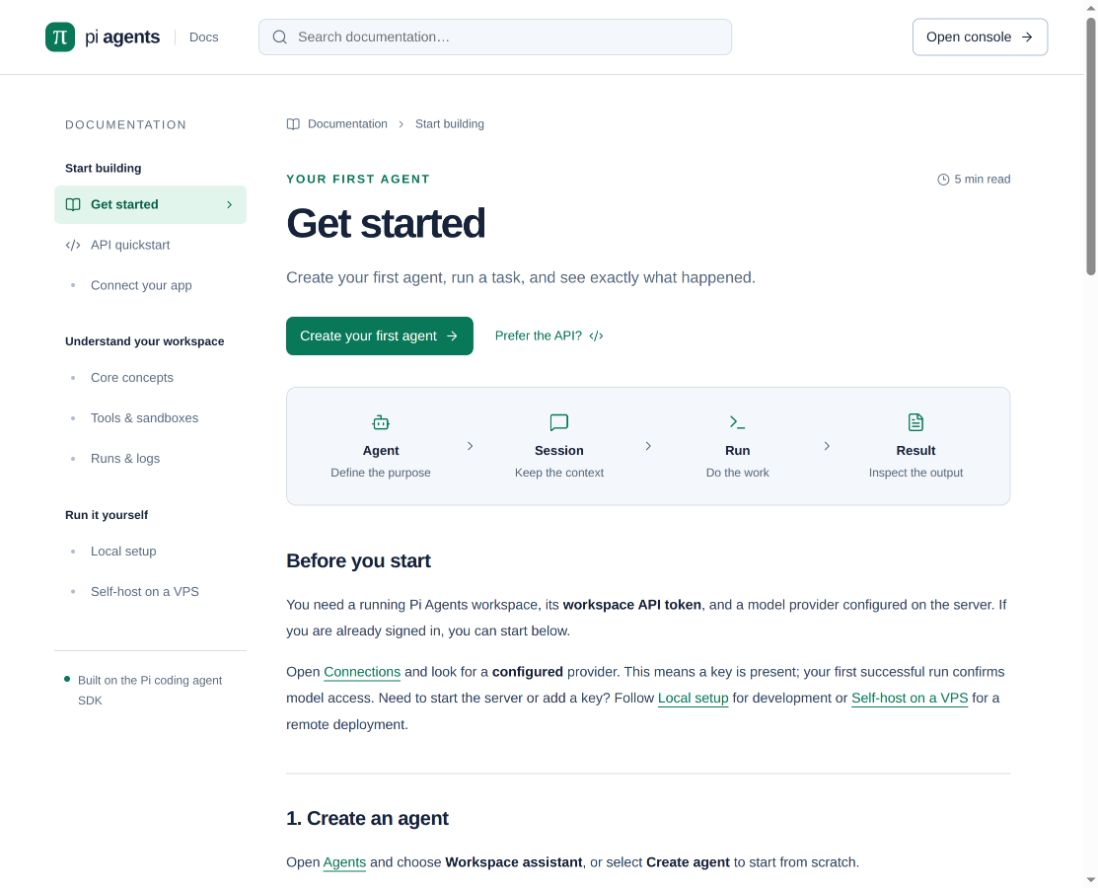
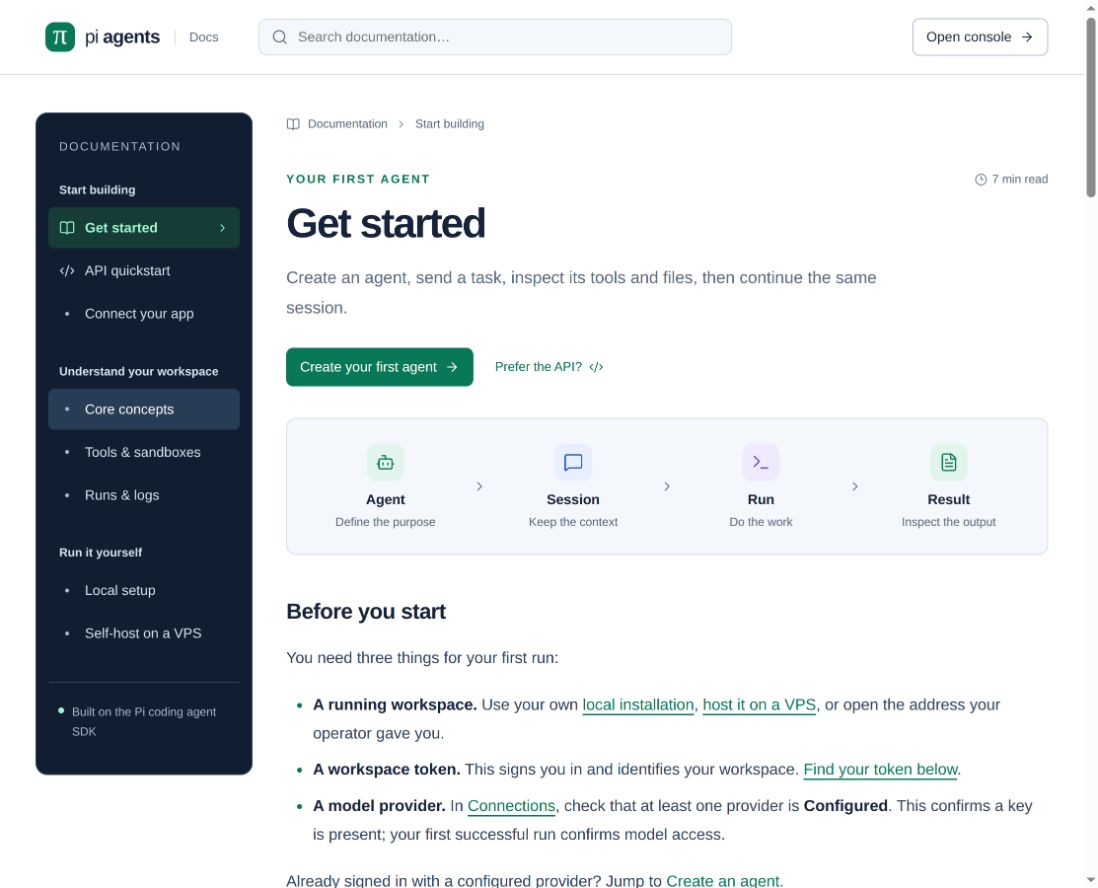
Refresh in-app documentation and its screenshot

diff --git a/ui/src/docs/content.ts b/ui/src/docs/content.ts
@@ -6,13 +6,18 @@ export const docPages: DocPage[] = [
     "id": "get-started",
     "title": "Get started",
     "group": "Start building",
-    "description": "Create your first agent, run a task, and see exactly what happened.",
-    "minutes": "5 min",
+    "description": "Create an agent, send a task, inspect its tools and files, then continue the same session.",
+    "minutes": "7 min",
     "sections": [
       {
         "id": "before-you-start",
         "title": "Before you start",
-        "body": "You need a running Pi Agents workspace, its **workspace API token**, and a model provider configured on the server. If you are already signed in, you can start below.\n\nOpen [Connections](#/connections) and look for a **configured** provider. This means a key is present; your first successful run confirms model access. Need to start the server or add a key? Follow [Local setup](#/docs/local-setup) for development or [Self-host on a VPS](#/docs/self-hosting) for a remote deployment."
+        "body": "You need three things for your first run:\n\n- **A running workspace.** Use your own [local installation](#/docs/local-setup), [host it on a VPS](#/docs/self-hosting), or open the address your operator gave you.\n- **A workspace token.** This signs you in and identifies your workspace. [Find your token below](#/docs/get-started?section=workspace-token).\n- **A model provider.** In [Connections](#/connections), check that at least one provider is **Configured**. This confirms a key is present; your first successful run confirms model access.\n\nAlready signed in with a configured provider? Jump to [Create an agent](#/docs/get-started?section=create-an-agent)."
+      },
+      {
+        "id": "workspace-token",
+        "title": "Find your workspace token",
+        "body": "Your **workspace token** is issued by the operator of this Pi Agents server. It is separate from an OpenRouter, OpenAI, or Anthropic API key.\n\n- **VPS installation:** the setup helper generates a token and saves it under `API_KEYS` in `.env.vps`.\n- **Existing local installation:** find `API_KEYS` in the server's `.env` file.\n- **Someone else hosts the workspace:** ask that operator for your token.\n\nThe configuration looks like this:\n\n```dotenv\nAPI_KEYS='{\"PASTE_YOUR_GENERATED_TOKEN_HERE\":\"demo\"}'\n```\n\nThe text **before the colon** is the token; `demo` is the workspace name. Open [the console](#/agents), paste **only the token** into **API token**, and select **Connect to workspace**. Do not paste the whole JSON object or a model provider key.\n\nFor a new local installation, [generate a token and configure the server](#/docs/local-setup?section=credentials). On a VPS, you can also [issue a token for another workspace](#/docs/self-hosting?section=keys). A workspace token grants access to that workspace's agents, sessions, logs, and files.\n\nThe console exchanges your token for an 8-hour browser session. Sign in again when it expires or the API restarts. These documentation pages remain available before sign-in."
       },
       {
         "id": "create-an-agent",
@@ -27,17 +32,17 @@ export const docPages: DocPage[] = [
       {
         "id": "send-a-task",
         "title": "3. Give it a task",
-        "body": "Paste this into the session composer and send it. The agent will write code, run it in the sandbox, and save a file you can inspect.\n\n```text\nWrite a Python program that generates the first ten Fibonacci numbers. Run it and save the program as outputs/fibonacci.py and the numbers as outputs/fibonacci.txt. Briefly explain the result.\n```\n\nThe run moves from **queued** to **running**, then **completed**. Keep the session open to follow its progress. Sending a task uses your configured model provider account."
+        "body": "Paste this into **Message the agent** in the Playground. Press **Enter** or select the send arrow; use **Shift + Enter** for a new line.\n\n```text\nWrite a Python program that generates the first ten Fibonacci numbers. Run it and save the program as outputs/fibonacci.py and the numbers as outputs/fibonacci.txt. Briefly explain the result.\n```\n\nSending a task creates a run and uses your configured model provider account. Its status moves from **Queued** to **Running**, then **Completed**. The inspector updates as work is recorded; the assistant response appears when complete. You can close the page and reopen the session while the worker continues."
       },
       {
         "id": "inspect-the-result",
         "title": "4. Inspect the result",
-        "body": "Use the session inspector beside the conversation:\n\n- **Runs** shows each attempt, its status, and the tool calls. Expand a call to see its arguments and result.\n- **Event log** shows the saved event log. Search or inspect an event's JSON to understand what happened.\n- **Artifacts** contains files published from `outputs/` after a successful run. Preview or download `fibonacci.txt`.\n\nSelect **Export logs** to download the session history. Events update as work is recorded; assistant text appears when a response is complete."
+        "body": "The **Inspector** sits beside the conversation on desktop and below it on a narrow screen. Use its three tabs:\n\n- **Runs:** expand the run, then a tool call, to see its arguments, result, and duration. The **tool calls** button below an assistant name takes you to that run.\n- **Event log:** choose a run, search event names or payloads, and select **Tools** or **Errors** to narrow the list. Select an event to inspect or copy its JSON.\n- **Artifacts:** preview or download `fibonacci.py` and `fibonacci.txt`. These are saved snapshots published from `outputs/` after a successful run.\n\nSelect **Export logs** at the top of the session to download its saved history. If the run fails or needs attention, use [Runs & logs](#/docs/runs-and-logs?section=troubleshoot) to find the next step."
       },
       {
         "id": "keep-building",
         "title": "5. Continue the conversation",
-        "body": "Send a follow-up in the same session:\n\n```text\nRead outputs/fibonacci.txt and tell me the sum of those numbers.\n```\n\nThe agent uses the existing workspace and conversation. Start a new session when you want a fresh task context.\n\nYou are ready to [build with the API](#/docs/api-quickstart), learn how [agents and sessions fit together](#/docs/concepts), or explore [runs and logs](#/docs/runs-and-logs)."
+        "body": "Send a follow-up in the **same session**:\n\n```text\nRead outputs/fibonacci.txt and tell me the sum of those numbers.\n```\n\nFor the sequence `0, 1, 1, 2, 3, 5, 8, 13, 21, 34`, the expected sum is **88**. This second run should use the file and conversation from the first run.\n\nReturn through [Sessions](#/sessions) to continue later. Start a new session for a fresh conversation and separate files. If you edit the agent and save a new version, start a new session to test that version; existing sessions keep their original configuration.\n\nReady to connect your application? The [API quickstart](#/docs/api-quickstart) performs this complete lifecycle from Node.js, including the follow-up and artifact downloads. [Connect your app](#/docs/connect-your-app) explains how to use a workspace hosted on another server."
       }
     ]
   },
@@ -51,7 +56,7 @@ export const docPages: DocPage[] = [
       {
         "id": "authenticate",
         "title": "1. Connect to your workspace",
-        "body": "Use **Node.js 22.19+** and a running server with OpenRouter configured. Set the same workspace token you use to sign in to the console. It is a token from the server's `API_KEYS` configuration; provider keys stay on the server.\n\n```sh\nexport API_URL='http://127.0.0.1:8080'\nexport API_TOKEN='your-workspace-token'\nexport MODEL_PROVIDER='openrouter'\nexport MODEL='deepseek/deepseek-v4.1-flash-1017'\n```\n\nAPI clients send `Authorization: Bearer <token>`. Every new `POST /v1/...` operation also needs an `Idempotency-Key`. Reuse the same key and body if you retry that operation after an uncertain response.\n\nFor a self-hosted server, set `API_URL=https://agents.example.com` instead. [Connect your app](#/docs/connect-your-app) explains remote app credentials, session ownership, and retries."
+        "body": "Use **Node.js 22.19+** and a running server with OpenRouter configured. Set the same workspace token you use to sign in to the console. Use [Find your workspace token](#/docs/get-started?section=workspace-token) if you do not have it yet. The token comes from the server's `API_KEYS` configuration; provider keys stay on the server.\n\n```sh\nexport API_URL='http://127.0.0.1:8080'\nexport API_TOKEN='your-workspace-token'\nexport MODEL_PROVIDER='openrouter'\nexport MODEL='deepseek/deepseek-v4.1-flash-1017'\n```\n\nAPI clients send `Authorization: Bearer <token>`. Every new `POST /v1/...` operation also needs an `Idempotency-Key`. Reuse the same key and body if you retry that operation after an uncertain response.\n\nFor a self-hosted server, set `API_URL=https://agents.example.com` instead. [Connect your app](#/docs/connect-your-app) explains remote app credentials, session ownership, and retries."
       },
       {
         "id": "check-connection",
@@ -187,7 +192,7 @@ export const docPages: DocPage[] = [
       {
         "id": "inspect",
         "title": "Read the session inspector",
-        "body": "Open a session from [Sessions](#/sessions). The conversation shows prompts and completed assistant responses. In the inspector:\n\n- **Runs** groups the steps for each task. Expand tool calls to inspect inputs and results.\n- **Event log** shows the saved event log, with search, filters, and raw JSON details.\n- **Artifacts** lets you preview or download published files.\n\nUse **Export logs** to save the session history, including runs and events beyond the currently visible list."
+        "body": "Open a session from [Sessions](#/sessions). **Playground** shows your messages and completed assistant responses. **Inspector** appears beside it on desktop and below it on a narrow screen.\n\n- **Runs** groups the steps for each task. Expand a run to see its attempt, duration, reported cost, and saved steps. Expand a tool call for its arguments and result. The **tool calls** button in the conversation opens the matching run.\n- **Event log** lists sequence numbers, event names, and timestamps. Use **Filter inspector by run**, **Search events**, and the **All events / Tools / Errors** selector to focus on the work you need. Select a row to inspect the payload, copy it, or expand **Full event JSON**.\n- **Artifacts** lists files published from successful runs. **Preview** is available for supported text files up to 256 KiB; **Download** saves any published file. Later changes to workspace files do not alter an existing artifact.\n\nThe summary above the Playground shows the pinned model, environment, run count, tool calls, and reported tokens. Usage comes from Pi; interrupted attempts may have incomplete usage.\n\nUse **Export logs** to download the session history, including runs and events beyond the currently visible list."
       },
       {
         "id": "statuses",
@@ -231,7 +236,7 @@ export const docPages: DocPage[] = [
       {
         "id": "credentials",
         "title": "2. Configure credentials",
-        "body": "Edit the local `.env` file. Set `API_KEYS` to a JSON object mapping a long, random workspace token to a workspace name. Tokens must be at least 24 characters. Set at least one model provider key.\n\n```dotenv\nAPI_KEYS={\"replace-with-a-long-random-workspace-token\":\"demo\"}\nOPENROUTER_API_KEY=your-openrouter-key\n```\n\nUse the token on the left side of `API_KEYS` to sign in to the console or authenticate API clients. Keep provider keys on the server. OpenAI and Anthropic use `OPENAI_API_KEY` and `ANTHROPIC_API_KEY` respectively.\n\nThe `.env` file is ignored by Git. After changing credentials on a running instance, restart the API and worker. Existing console sessions need to sign in again after an API restart."
+        "body": "Edit the server's local `.env` file. For a **new installation**, generate a random workspace token:\n\n```sh\nnode -e \"console.log('pi_' + require('node:crypto').randomBytes(32).toString('base64url'))\"\n```\n\nCopy the output into `API_KEYS` as the JSON key before the colon. The value, `demo`, names the workspace. Reuse your existing token if this installation already has one. Tokens must contain at least 24 characters.\n\n```dotenv\nAPI_KEYS='{\"PASTE_YOUR_GENERATED_TOKEN_HERE\":\"demo\"}'\nOPENROUTER_API_KEY=your-openrouter-key\n```\n\nReplace both placeholders with your own values. Use **only the generated workspace token** in the console's **API token** field or your app backend's `API_TOKEN`. Keep the model provider key on the agents server; it does not sign you into the console. OpenAI and Anthropic use `OPENAI_API_KEY` and `ANTHROPIC_API_KEY` respectively.\n\nThe `.env` file is ignored by Git. After changing credentials on a running instance, restart the API and worker. Existing console sessions need to sign in again after an API restart."
       },
       {
         "id": "start-console",

diff --git a/ui/src/docs/docs.css b/ui/src/docs/docs.css
@@ -70,31 +70,50 @@
 .docs-console-link { margin-left: auto; }
 .docs-layout {
   display: grid;
-  grid-template-columns: 200px minmax(0, 740px) 166px;
-  gap: 48px;
+  grid-template-columns: 220px minmax(0, 740px) 166px;
+  gap: 38px;
   max-width: 1370px;
   padding: 38px 36px 0;
   margin: 0 auto;
   align-items: start;
 }
 .docs-sidebar, .docs-toc { position: sticky; top: 114px; max-height: calc(100dvh - 140px); overflow: auto; }
+.docs-sidebar {
+  padding: 21px 12px 12px;
+  border: 1px solid var(--nav-border);
+  border-radius: 12px;
+  background: var(--nav-bg);
+  color: var(--nav-text);
+  scrollbar-color: var(--nav-border) var(--nav-bg);
+  scrollbar-width: thin;
+}
 .docs-sidebar-label { font-size: 12px; letter-spacing: 1.5px; color: var(--muted); padding: 6px 11px; margin-bottom: 24px; }
 .docs-guide-nav h2 { font-size: 12px; letter-spacing: 0; color: var(--ink); padding: 0 11px; margin-bottom: 10px; font-weight: 600; }
 .docs-guide-nav > div + div { margin-top: 31px; }
-.docs-guide-nav a { display: flex; align-items: center; gap: 10px; font-size: 13px; padding: 11px; margin: 2px 0; border-radius: 6px; color: var(--muted); line-height: 1.3; }
+.docs-guide-nav a { display: flex; align-items: center; gap: 10px; font-size: 14px; padding: 11px; margin: 2px 0; border-radius: 6px; color: var(--muted); line-height: 1.4; }
 .docs-guide-nav a:hover { background: var(--surface-muted); color: var(--green); }
 .docs-guide-nav a.active { background: var(--mint); color: var(--green-hover); font-weight: 600; }
 .docs-guide-nav a > svg:last-child:not(:first-child) { margin-left: auto; }
 .docs-nav-dot { width: 4px; height: 4px; border-radius: 50%; background: var(--border-strong); margin: 0 6px; flex-shrink: 0; }
 .docs-sidebar-note { display: flex; gap: 8px; align-items: flex-start; font-size: 12px; color: var(--muted); border-top: 1px solid var(--border); padding: 20px 10px; margin-top: 40px; line-height: 1.7; }
 .docs-sidebar-note .tiny-dot { margin-top: 5px; }
+.docs-sidebar .docs-sidebar-label,
+.docs-sidebar .docs-sidebar-note { color: var(--nav-muted); }
+.docs-sidebar .docs-guide-nav h2,
+.docs-sidebar .docs-guide-nav a { color: var(--nav-text); }
+.docs-sidebar .docs-guide-nav a:hover { background: var(--nav-hover); color: var(--surface); }
+.docs-sidebar .docs-guide-nav a.active { background: var(--nav-active-bg); color: var(--nav-active); }
+.docs-sidebar .docs-nav-dot { background: var(--nav-muted); }
+.docs-sidebar .docs-sidebar-note { border-color: var(--nav-border); margin-top: 28px; }
+.docs-sidebar .tiny-dot { background: var(--nav-active); }
+.docs-sidebar a:focus-visible { outline-color: var(--nav-active); }
 .docs-article { min-width: 0; padding: 0 0 28px; scroll-margin-top: 110px; }
 .docs-breadcrumb { display: flex; align-items: center; gap: 8px; font-size: 12px; color: var(--muted); margin: 5px 0 42px; }
 .docs-page-meta { display: flex; justify-content: space-between; align-items: center; gap: 12px; margin-bottom: 13px; }
 .docs-page-meta > span:first-child { color: var(--green); font-size: 12px; font-weight: 600; letter-spacing: 1.8px; }
 .docs-page-meta > span:last-child { display: flex; align-items: center; gap: 5px; color: var(--muted); font-size: 12px; }
 .docs-article h1 { font-size: 42px; line-height: 1.15; letter-spacing: -1.8px; font-weight: 600; outline: none; }
-.docs-lead { color: var(--muted); font-size: 16px; line-height: 1.85; margin-top: 16px; max-width: 540px; }
+.docs-lead { color: var(--muted); font-size: 17px; line-height: 1.8; margin-top: 16px; max-width: 620px; }
 .docs-intro-actions { display: flex; align-items: center; gap: 22px; margin-top: 25px; }
 .docs-intro-actions .button { min-height: 39px; }
 .docs-inline-link { display: inline-flex; align-items: center; gap: 7px; color: var(--green); font-size: 13px; font-weight: 500; }
@@ -109,32 +128,35 @@
   border: 1px solid var(--border);
   background: var(--surface-muted);
   border-radius: 10px;
-  border-color: var(--border);
 }
 .docs-flow > span { flex: 1; display: flex; flex-direction: column; align-items: center; min-width: 0; gap: 8px; }
-.docs-flow > span > svg { color: var(--green); margin-bottom: 3px; }
-.docs-flow strong { font-size: 13px; font-weight: 600; }
+.docs-flow > span > svg { color: var(--green); background: var(--mint); padding: 9px; box-sizing: content-box; border-radius: 10px; margin-bottom: 3px; }
+.docs-flow > span:nth-of-type(2) > svg { color: var(--blue); background: var(--blue-soft); }
+.docs-flow > span:nth-of-type(3) > svg { color: var(--purple); background: var(--purple-soft); }
+.docs-flow strong { font-size: 14px; font-weight: 600; }
 .docs-flow small { font-size: 12px; color: var(--muted); text-align: center; }
 .docs-flow > svg { color: var(--muted); }
-.docs-section { margin-top: 36px; padding-top: 4px; scroll-margin-top: 105px; font-size: 14px; color: var(--text); line-height: 1.85; }
+.docs-section { margin-top: 36px; padding-top: 4px; scroll-margin-top: 105px; font-size: 16px; color: var(--text); line-height: 1.8; }
 .docs-section + .docs-section { border-top: 1px solid var(--border); padding-top: 31px; }
-.docs-section h2 { font-size: 20px; line-height: 1.4; letter-spacing: -.45px; font-weight: 600; color: var(--ink); margin-bottom: 17px; }
+.docs-section h2 { font-size: 22px; line-height: 1.4; letter-spacing: -.45px; font-weight: 600; color: var(--ink); margin-bottom: 17px; }
 .docs-section h2 a { display: flex; align-items: baseline; gap: 10px; color: inherit; text-decoration: none; }
 .docs-section h2 span { opacity: 0; color: var(--muted); font-size: 16px; font-weight: 400; }
 .docs-section h2 a:hover span, .docs-section h2 a:focus-visible span { opacity: 1; }
-.docs-section p { line-height: 1.9; }
+.docs-section p { line-height: 1.8; }
 .docs-section p + p { margin-top: 15px; }
 .docs-section strong { color: var(--ink); font-weight: 600; }
-.docs-section p a { color: var(--green); text-decoration: underline; text-decoration-color: var(--green); text-underline-offset: 4px; }
-.docs-section ul { padding-left: 21px; margin: 15px 0; }
+.docs-section p a,
+.docs-section li a { color: var(--green); text-decoration: underline; text-decoration-color: var(--green); text-underline-offset: 4px; }
+.docs-section ul,
+.docs-section ol { padding-left: 24px; margin: 15px 0; }
 .docs-section li { padding: 4px 0 4px 3px; }
 .docs-section li::marker { color: var(--green); }
-.docs-section code { padding: 2px 5px; border: 1px solid var(--border); border-radius: 4px; background: var(--mint); font-size: 13px; color: var(--green-hover); overflow-wrap: anywhere; border-color: var(--mint-strong); }
+.docs-section code { padding: 2px 5px; border: 1px solid var(--mint-strong); border-radius: 4px; background: var(--mint); font-size: 14px; color: var(--green-hover); overflow-wrap: anywhere; }
 .docs-code { border: 1px solid var(--border); border-radius: 8px; margin: 20px 0; overflow: hidden; background: var(--code-bg); border-color: var(--nav-border); }
 .docs-code-heading { display: flex; align-items: center; justify-content: space-between; padding: 9px 12px; border-bottom: 1px solid var(--border); background: var(--nav-surface); gap: 10px; border-bottom-color: var(--nav-border); }
 .docs-code-heading > span { display: flex; align-items: center; gap: 7px; font-size: 12px; color: var(--code-text); line-height: 1.2; }
 .docs-code-heading .icon-button { color: var(--code-text); padding: 3px; }
-.docs-code pre { padding: 17px; overflow: auto; max-height: 530px; white-space: pre; font-size: 13px; line-height: 1.85; outline-offset: -3px; }
+.docs-code pre { padding: 17px; overflow: auto; max-height: 530px; white-space: pre; font-size: 14px; line-height: 1.8; outline-offset: -3px; }
 .docs-code pre code { border: 0; background: none; padding: 0; font-size: inherit; color: var(--code-text); white-space: inherit; overflow-wrap: normal; }
 .docs-prompt pre { white-space: pre-wrap; overflow-wrap: anywhere; }
 .docs-section .docs-code:has(.docs-code-heading) { line-height: 1.6; }
@@ -153,7 +175,7 @@
 .docs-toc { padding-top: 7px; }
 .docs-toc > span { font-size: 11px; letter-spacing: 1.3px; color: var(--muted); }
 .docs-toc nav { display: flex; flex-direction: column; margin-top: 18px; gap: 0; border-left: 1px solid var(--border); }
-.docs-toc nav a { font-size: 12px; color: var(--muted); padding: 7px 0 7px 14px; line-height: 1.6; }
+.docs-toc nav a { font-size: 13px; color: var(--muted); padding: 7px 0 7px 14px; line-height: 1.6; }
 .docs-toc nav a:hover { color: var(--green); border-left: 1px solid var(--border); margin-left: -1px; border-left-color: var(--green); }
 .docs-toc-help { display: block; font-size: 12px; color: var(--muted); margin-top: 34px; line-height: 1.8; }
 .docs-toc-help strong { display: flex; align-items: center; gap: 6px; color: var(--green); font-size: 12px; font-weight: 500; margin-top: 6px; }
@@ -165,12 +187,12 @@
   .docs-header { padding-left: max(36px, calc((100vw - 1298px) / 2)); padding-right: max(36px, calc((100vw - 1298px) / 2)); }
 }
 @media (max-width: 1180px) {
-  .docs-layout { grid-template-columns: 195px minmax(0, 1fr); max-width: 1060px; gap: 40px; padding-right: 55px; }
+  .docs-layout { grid-template-columns: 220px minmax(0, 1fr); max-width: 1100px; gap: 34px; padding-right: 36px; }
   .docs-toc { display: none; }
   .docs-header { gap: 30px; }
 }
 @media (max-width: 850px) {
-  .docs-layout { grid-template-columns: 170px minmax(0, 1fr); gap: 26px; padding: 30px 25px 0; }
+  .docs-layout { grid-template-columns: 200px minmax(0, 1fr); gap: 24px; padding: 30px 25px 0; }
   .docs-header { padding: 0 25px; gap: 22px; }
   .docs-header .brand { min-width: 180px; }
   .docs-article h1 { font-size: 35px; }
@@ -188,25 +210,30 @@
   .docs-search { padding: 9px 11px; }
   .docs-layout { display: block; padding: 28px 22px 0; }
   .docs-sidebar { display: none; }
-  .docs-mobile-navigation { display: block; border-bottom: 1px solid var(--border); background: var(--surface-muted); padding: 0 20px; }
-  .docs-mobile-navigation summary { display: flex; align-items: center; gap: 9px; cursor: pointer; padding: 14px 0; font-size: 13px; color: var(--muted); list-style: none; }
+  .docs-mobile-navigation { display: block; border-bottom: 1px solid var(--nav-border); background: var(--nav-bg); padding: 0 20px; color: var(--nav-text); }
+  .docs-mobile-navigation summary { display: flex; align-items: center; gap: 9px; cursor: pointer; padding: 14px 0; font-size: 14px; color: var(--nav-text); list-style: none; }
   .docs-mobile-navigation summary::-webkit-details-marker { display: none; }
   .docs-mobile-navigation summary svg:last-child { margin-left: auto; }
   .docs-mobile-navigation[open] summary svg:last-child { transform: rotate(180deg); }
   .docs-mobile-navigation .docs-guide-nav { padding: 13px 0 22px; }
-  .docs-mobile-navigation .docs-guide-nav a { font-size: 14px; }
+  .docs-mobile-navigation .docs-guide-nav h2,
+  .docs-mobile-navigation .docs-guide-nav a { color: var(--nav-text); }
+  .docs-mobile-navigation .docs-guide-nav a:hover { background: var(--nav-hover); }
+  .docs-mobile-navigation .docs-guide-nav a.active { background: var(--nav-active-bg); color: var(--nav-active); }
+  .docs-mobile-navigation a:focus-visible,
+  .docs-mobile-navigation summary:focus-visible { outline-color: var(--nav-active); }
   .docs-breadcrumb { font-size: 12px; margin-bottom: 29px; }
   .docs-article h1 { font-size: 34px; letter-spacing: -1.3px; }
-  .docs-lead { font-size: 15px; }
+  .docs-lead { font-size: 16px; }
   .docs-intro-actions { gap: 17px; flex-wrap: wrap; margin-top: 22px; }
   .docs-intro-actions .button { font-size: 13px; }
   .docs-flow { gap: 2px; margin: 27px 0 32px; padding: 21px 10px; }
   .docs-flow strong { font-size: 12px; }
   .docs-flow small { display: none; }
   .docs-flow > svg { width: 12px; }
-  .docs-section { font-size: 14px; scroll-margin-top: 145px; }
-  .docs-section h2 { font-size: 19px; }
-  .docs-code pre { padding: 14px; font-size: 12px; }
+  .docs-section { font-size: 15px; scroll-margin-top: 165px; }
+  .docs-section h2 { font-size: 21px; }
+  .docs-code pre { padding: 14px; font-size: 13px; }
   .docs-footer { margin-top: 25px; font-size: 11px; }
 }
 .docs-endpoint { margin: 26px 0 34px; padding: 20px; border: 1px solid var(--border); border-radius: 12px; background: var(--surface); }

diff --git a/README.md b/README.md
@@ -290,9 +290,9 @@ If the server is already running, restart `npm run dev` after changing `.env`; f
 
 ## Documentation in your workspace
 
-Getting started, API integration, sessions, tools, logs, and VPS operations are documented **inside the UI**, alongside the agents you are building. Search the guides, copy runnable examples, and follow links straight into the console.
+Getting started, API integration, sessions, tools, logs, and VPS operations are documented **inside the UI**, alongside the agents you are building. Find your workspace token, follow the complete agent-to-session walkthrough, and learn how to inspect tool calls, events, and files. Search the guides, copy runnable examples, and follow links straight into the console.
 
-![The built-in getting-started documentation with agent, session, run, and result guidance](docs/images/documentation.jpg)
+![The built-in getting-started guide with larger text, dark navigation, and workspace setup instructions](docs/images/documentation.jpg)
 
 On a local install, [open Documentation](http://127.0.0.1:8080/#/docs/get-started). Every hosted instance serves the same guides at `/#/docs/get-started`, including before sign-in.
 
